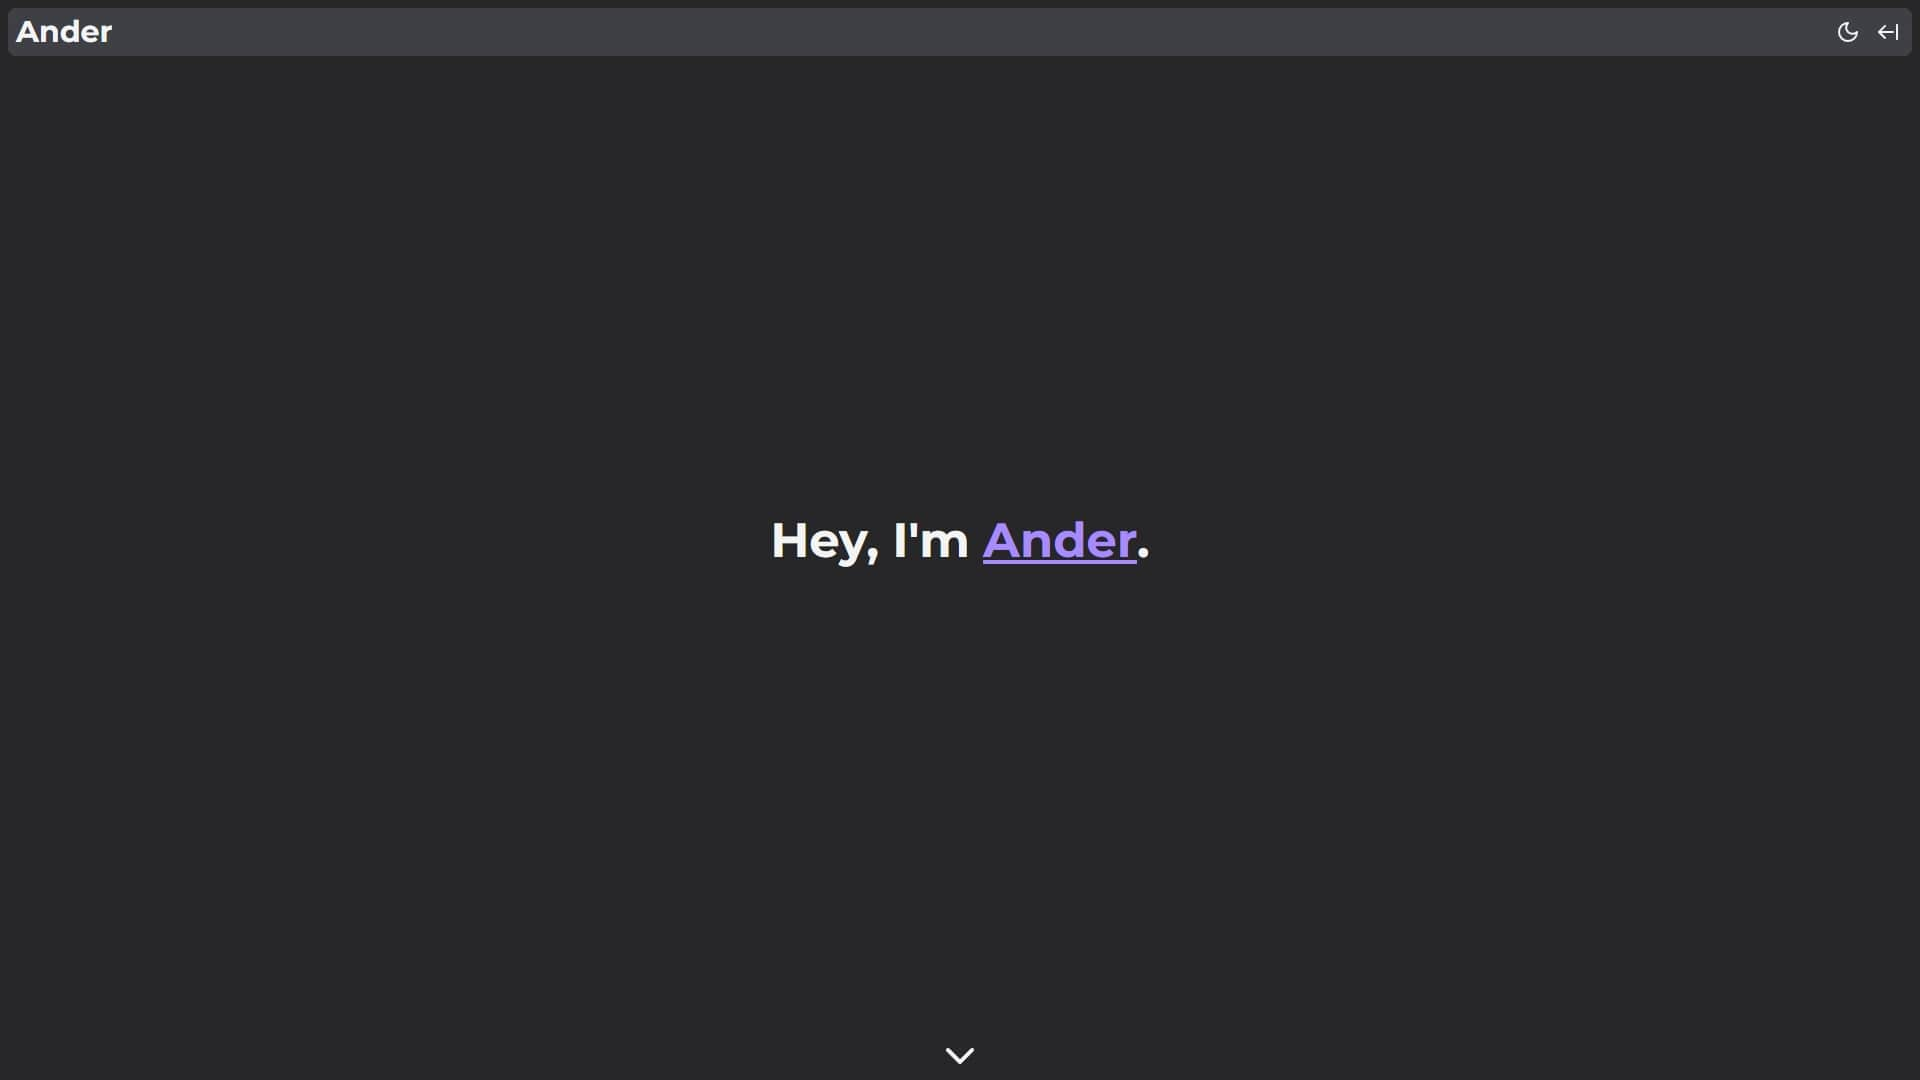
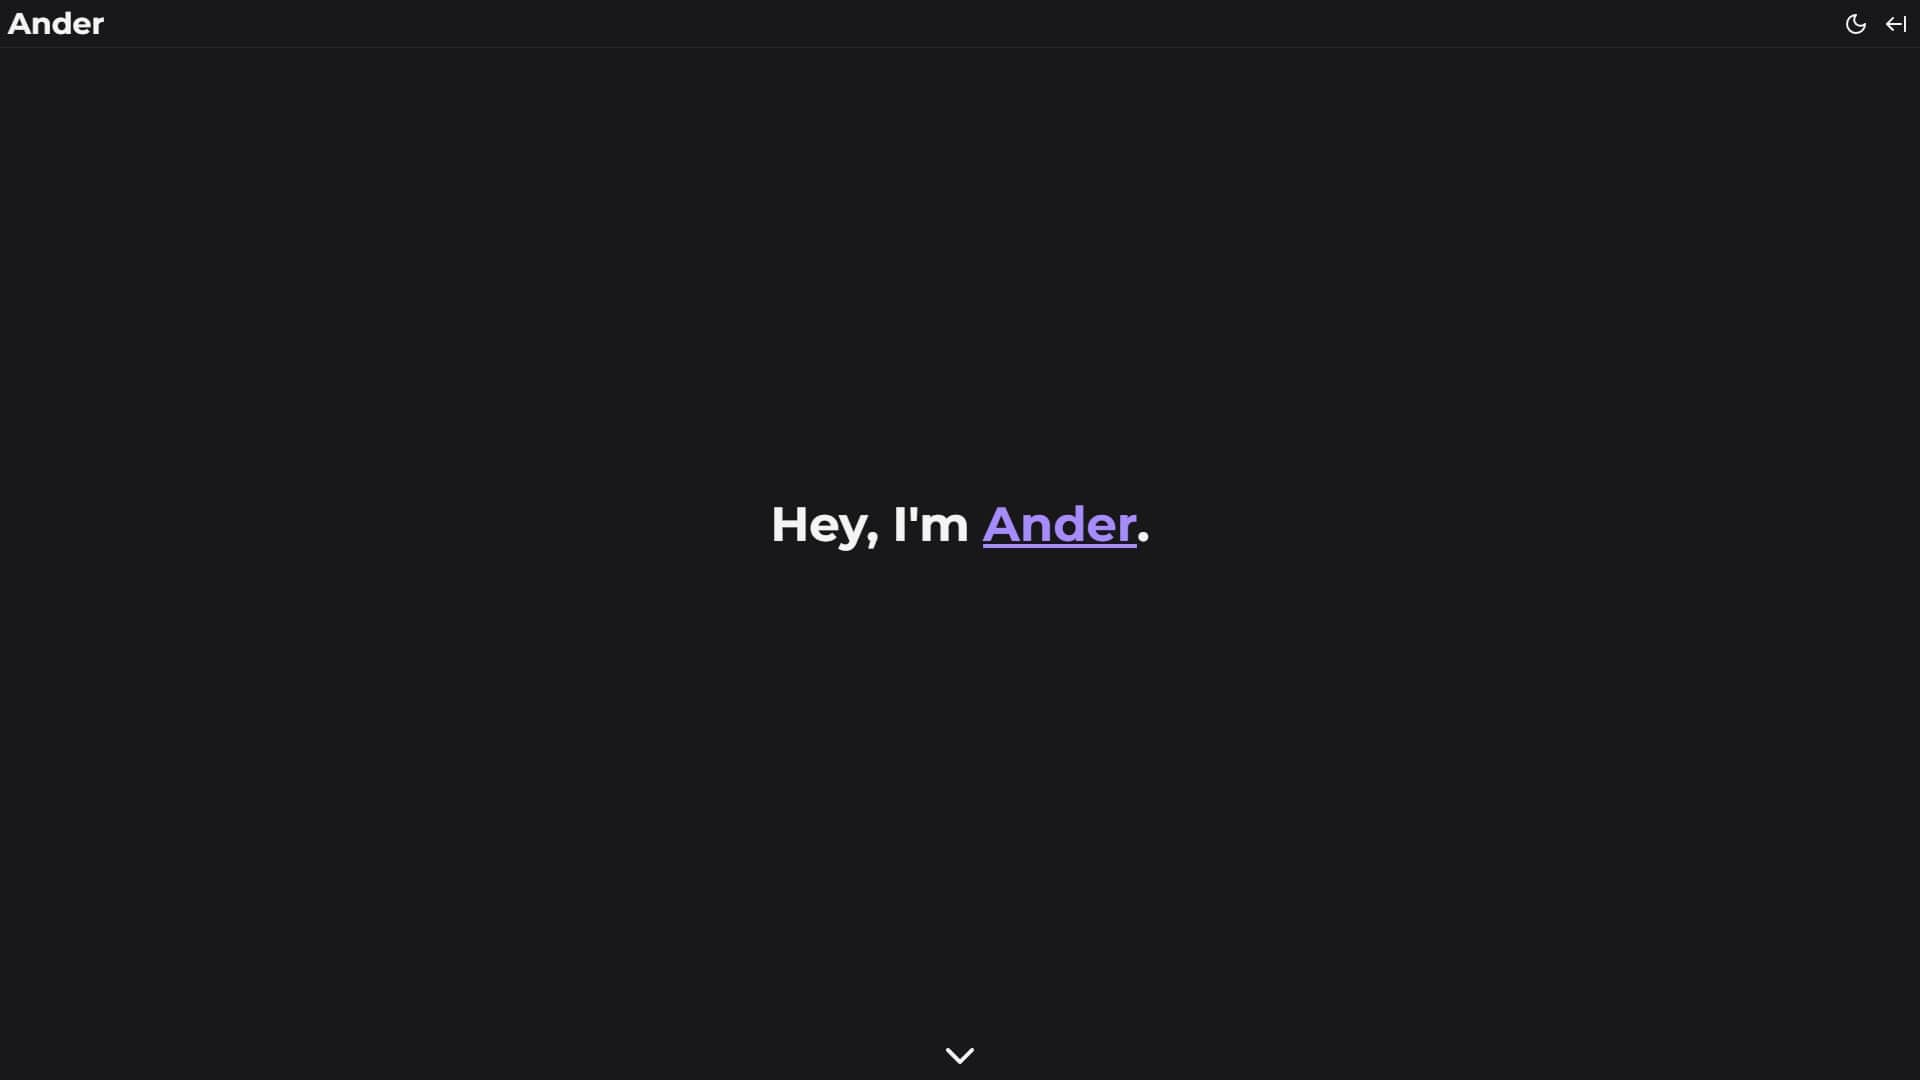
refactored header

Changed region(s): [[0.0, 0.0, 1.0, 0.0611], [0.4062, 0.4583, 0.625, 0.55]]

diff --git a/build.css b/build.css
@@ -1,1 +1,1 @@
-/*! tailwindcss v3.4.1 | MIT License | https://tailwindcss.com*/*,:after,:before{box-sizing:border-box;border:0 solid #e5e7eb}:after,:before{--tw-content:""}:host,html{line-height:1.5;-webkit-text-size-adjust:100%;-moz-tab-size:4;-o-tab-size:4;tab-size:4;font-family:Montserrat,sans-serif;font-feature-settings:normal;font-variation-settings:normal;-webkit-tap-highlight-color:transparent}body{margin:0;line-height:inherit}hr{height:0;color:inherit;border-top-width:1px}abbr:where([title]){-webkit-text-decoration:underline dotted;text-decoration:underline dotted}h1,h2,h3,h4,h5,h6{font-size:inherit;font-weight:inherit}a{color:inherit;text-decoration:inherit}b,strong{font-weight:bolder}code,kbd,pre,samp{font-family:ui-monospace,SFMono-Regular,Menlo,Monaco,Consolas,Liberation Mono,Courier New,monospace;font-feature-settings:normal;font-variation-settings:normal;font-size:1em}small{font-size:80%}sub,sup{font-size:75%;line-height:0;position:relative;vertical-align:initial}sub{bottom:-.25em}sup{top:-.5em}table{text-indent:0;border-color:inherit;border-collapse:collapse}button,input,optgroup,select,textarea{font-family:inherit;font-feature-settings:inherit;font-variation-settings:inherit;font-size:100%;font-weight:inherit;line-height:inherit;color:inherit;margin:0;padding:0}button,select{text-transform:none}[type=button],[type=reset],[type=submit],button{-webkit-appearance:button;background-color:initial;background-image:none}:-moz-focusring{outline:auto}:-moz-ui-invalid{box-shadow:none}progress{vertical-align:initial}::-webkit-inner-spin-button,::-webkit-outer-spin-button{height:auto}[type=search]{-webkit-appearance:textfield;outline-offset:-2px}::-webkit-search-decoration{-webkit-appearance:none}::-webkit-file-upload-button{-webkit-appearance:button;font:inherit}summary{display:list-item}blockquote,dd,dl,figure,h1,h2,h3,h4,h5,h6,hr,p,pre{margin:0}fieldset{margin:0}fieldset,legend{padding:0}menu,ol,ul{list-style:none;margin:0;padding:0}dialog{padding:0}textarea{resize:vertical}input::-moz-placeholder,textarea::-moz-placeholder{opacity:1;color:#9ca3af}input::placeholder,textarea::placeholder{opacity:1;color:#9ca3af}[role=button],button{cursor:pointer}:disabled{cursor:default}audio,canvas,embed,iframe,img,object,svg,video{display:block;vertical-align:middle}img,video{max-width:100%;height:auto}[hidden]{display:none}*,::backdrop,:after,:before{--tw-border-spacing-x:0;--tw-border-spacing-y:0;--tw-translate-x:0;--tw-translate-y:0;--tw-rotate:0;--tw-skew-x:0;--tw-skew-y:0;--tw-scale-x:1;--tw-scale-y:1;--tw-pan-x: ;--tw-pan-y: ;--tw-pinch-zoom: ;--tw-scroll-snap-strictness:proximity;--tw-gradient-from-position: ;--tw-gradient-via-position: ;--tw-gradient-to-position: ;--tw-ordinal: ;--tw-slashed-zero: ;--tw-numeric-figure: ;--tw-numeric-spacing: ;--tw-numeric-fraction: ;--tw-ring-inset: ;--tw-ring-offset-width:0px;--tw-ring-offset-color:#fff;--tw-ring-color:#3b82f680;--tw-ring-offset-shadow:0 0 #0000;--tw-ring-shadow:0 0 #0000;--tw-shadow:0 0 #0000;--tw-shadow-colored:0 0 #0000;--tw-blur: ;--tw-brightness: ;--tw-contrast: ;--tw-grayscale: ;--tw-hue-rotate: ;--tw-invert: ;--tw-saturate: ;--tw-sepia: ;--tw-drop-shadow: ;--tw-backdrop-blur: ;--tw-backdrop-brightness: ;--tw-backdrop-contrast: ;--tw-backdrop-grayscale: ;--tw-backdrop-hue-rotate: ;--tw-backdrop-invert: ;--tw-backdrop-opacity: ;--tw-backdrop-saturate: ;--tw-backdrop-sepia: }.fixed{position:fixed}.absolute{position:absolute}.sticky{position:sticky}.bottom-0{bottom:0}.bottom-2{bottom:.5rem}.right-0{right:0}.right-1\/2{right:50%}.top-14{top:3.5rem}.top-2{top:.5rem}.z-10{z-index:10}.z-20{z-index:20}.z-30{z-index:30}.m-2{margin:.5rem}.mx-auto{margin-left:auto;margin-right:auto}.my-16{margin-top:4rem;margin-bottom:4rem}.mb-2{margin-bottom:.5rem}.mb-32{margin-bottom:8rem}.mb-4{margin-bottom:1rem}.ml-2{margin-left:.5rem}.ml-auto{margin-left:auto}.mt-4{margin-top:1rem}.flex{display:flex}.grid{display:grid}.hidden{display:none}.h-12{height:3rem}.h-8{height:2rem}.h-full{height:100%}.h-screen{height:100vh}.w-0{width:0}.w-4\/5{width:80%}.w-48{width:12rem}.w-\[calc\(100\%-16px\)\]{width:calc(100% - 16px)}.w-full{width:100%}.translate-x-1\/2{--tw-translate-x:50%}.rotate-180,.translate-x-1\/2{transform:translate(var(--tw-translate-x),var(--tw-translate-y)) rotate(var(--tw-rotate)) skewX(var(--tw-skew-x)) skewY(var(--tw-skew-y)) scaleX(var(--tw-scale-x)) scaleY(var(--tw-scale-y))}.rotate-180{--tw-rotate:180deg}@keyframes bounce{0%,to{transform:translateY(-25%);animation-timing-function:cubic-bezier(.8,0,1,1)}50%{transform:none;animation-timing-function:cubic-bezier(0,0,.2,1)}}.animate-bounce{animation:bounce 1s infinite}.select-none{-webkit-user-select:none;-moz-user-select:none;user-select:none}.grid-rows-1{grid-template-rows:repeat(1,minmax(0,1fr))}.flex-col{flex-direction:column}.items-start{align-items:flex-start}.items-end{align-items:flex-end}.items-center{align-items:center}.justify-start{justify-content:flex-start}.justify-center{justify-content:center}.justify-evenly{justify-content:space-evenly}.gap-4{gap:1rem}.overflow-hidden{overflow:hidden}.scroll-smooth{scroll-behavior:smooth}.rounded-full{border-radius:9999px}.rounded-lg{border-radius:.5rem}.border-4{border-width:4px}.border-current{border-color:currentColor}.bg-zinc-100{--tw-bg-opacity:1;background-color:rgb(244 244 245/var(--tw-bg-opacity))}.bg-zinc-200{--tw-bg-opacity:1;background-color:rgb(228 228 231/var(--tw-bg-opacity))}.p-1{padding:.25rem}.p-2{padding:.5rem}.text-center{text-align:center}.text-3xl{font-size:1.875rem;line-height:2.25rem}.text-4xl{font-size:2.25rem;line-height:2.5rem}.text-sm{font-size:.875rem;line-height:1.25rem}.text-xl{font-size:1.25rem;line-height:1.75rem}.font-bold{font-weight:700}.font-medium{font-weight:500}.text-violet-400{--tw-text-opacity:1;color:rgb(167 139 250/var(--tw-text-opacity))}.text-zinc-900{--tw-text-opacity:1;color:rgb(24 24 27/var(--tw-text-opacity))}.underline{text-decoration-line:underline}.transition-\[width\]{transition-property:width;transition-timing-function:cubic-bezier(.4,0,.2,1);transition-duration:.15s}.transition-colors{transition-property:color,background-color,border-color,text-decoration-color,fill,stroke;transition-timing-function:cubic-bezier(.4,0,.2,1);transition-duration:.15s}.transition-transform{transition-property:transform;transition-timing-function:cubic-bezier(.4,0,.2,1);transition-duration:.15s}.duration-300{transition-duration:.3s}.hover\:border-violet-400:hover{--tw-border-opacity:1;border-color:rgb(167 139 250/var(--tw-border-opacity))}.hover\:bg-zinc-200:hover{--tw-bg-opacity:1;background-color:rgb(228 228 231/var(--tw-bg-opacity))}.hover\:bg-zinc-300:hover{--tw-bg-opacity:1;background-color:rgb(212 212 216/var(--tw-bg-opacity))}.hover\:text-violet-500:hover{--tw-text-opacity:1;color:rgb(139 92 246/var(--tw-text-opacity))}:is(.dark .dark\:bg-zinc-700){--tw-bg-opacity:1;background-color:rgb(63 63 70/var(--tw-bg-opacity))}:is(.dark .dark\:bg-zinc-800){--tw-bg-opacity:1;background-color:rgb(39 39 42/var(--tw-bg-opacity))}:is(.dark .dark\:text-zinc-100){--tw-text-opacity:1;color:rgb(244 244 245/var(--tw-text-opacity))}:is(.dark .dark\:hover\:bg-zinc-600:hover){--tw-bg-opacity:1;background-color:rgb(82 82 91/var(--tw-bg-opacity))}:is(.dark .dark\:hover\:bg-zinc-700:hover){--tw-bg-opacity:1;background-color:rgb(63 63 70/var(--tw-bg-opacity))}@media (min-width:1024px){.lg\:grid-cols-2{grid-template-columns:repeat(2,minmax(0,1fr))}.lg\:text-5xl{font-size:3rem;line-height:1}}
+/*! tailwindcss v3.4.1 | MIT License | https://tailwindcss.com*/*,:after,:before{box-sizing:border-box;border:0 solid #e5e7eb}:after,:before{--tw-content:""}:host,html{line-height:1.5;-webkit-text-size-adjust:100%;-moz-tab-size:4;-o-tab-size:4;tab-size:4;font-family:Montserrat,sans-serif;font-feature-settings:normal;font-variation-settings:normal;-webkit-tap-highlight-color:transparent}body{margin:0;line-height:inherit}hr{height:0;color:inherit;border-top-width:1px}abbr:where([title]){-webkit-text-decoration:underline dotted;text-decoration:underline dotted}h1,h2,h3,h4,h5,h6{font-size:inherit;font-weight:inherit}a{color:inherit;text-decoration:inherit}b,strong{font-weight:bolder}code,kbd,pre,samp{font-family:ui-monospace,SFMono-Regular,Menlo,Monaco,Consolas,Liberation Mono,Courier New,monospace;font-feature-settings:normal;font-variation-settings:normal;font-size:1em}small{font-size:80%}sub,sup{font-size:75%;line-height:0;position:relative;vertical-align:initial}sub{bottom:-.25em}sup{top:-.5em}table{text-indent:0;border-color:inherit;border-collapse:collapse}button,input,optgroup,select,textarea{font-family:inherit;font-feature-settings:inherit;font-variation-settings:inherit;font-size:100%;font-weight:inherit;line-height:inherit;color:inherit;margin:0;padding:0}button,select{text-transform:none}[type=button],[type=reset],[type=submit],button{-webkit-appearance:button;background-color:initial;background-image:none}:-moz-focusring{outline:auto}:-moz-ui-invalid{box-shadow:none}progress{vertical-align:initial}::-webkit-inner-spin-button,::-webkit-outer-spin-button{height:auto}[type=search]{-webkit-appearance:textfield;outline-offset:-2px}::-webkit-search-decoration{-webkit-appearance:none}::-webkit-file-upload-button{-webkit-appearance:button;font:inherit}summary{display:list-item}blockquote,dd,dl,figure,h1,h2,h3,h4,h5,h6,hr,p,pre{margin:0}fieldset{margin:0}fieldset,legend{padding:0}menu,ol,ul{list-style:none;margin:0;padding:0}dialog{padding:0}textarea{resize:vertical}input::-moz-placeholder,textarea::-moz-placeholder{opacity:1;color:#9ca3af}input::placeholder,textarea::placeholder{opacity:1;color:#9ca3af}[role=button],button{cursor:pointer}:disabled{cursor:default}audio,canvas,embed,iframe,img,object,svg,video{display:block;vertical-align:middle}img,video{max-width:100%;height:auto}[hidden]{display:none}*,::backdrop,:after,:before{--tw-border-spacing-x:0;--tw-border-spacing-y:0;--tw-translate-x:0;--tw-translate-y:0;--tw-rotate:0;--tw-skew-x:0;--tw-skew-y:0;--tw-scale-x:1;--tw-scale-y:1;--tw-pan-x: ;--tw-pan-y: ;--tw-pinch-zoom: ;--tw-scroll-snap-strictness:proximity;--tw-gradient-from-position: ;--tw-gradient-via-position: ;--tw-gradient-to-position: ;--tw-ordinal: ;--tw-slashed-zero: ;--tw-numeric-figure: ;--tw-numeric-spacing: ;--tw-numeric-fraction: ;--tw-ring-inset: ;--tw-ring-offset-width:0px;--tw-ring-offset-color:#fff;--tw-ring-color:#3b82f680;--tw-ring-offset-shadow:0 0 #0000;--tw-ring-shadow:0 0 #0000;--tw-shadow:0 0 #0000;--tw-shadow-colored:0 0 #0000;--tw-blur: ;--tw-brightness: ;--tw-contrast: ;--tw-grayscale: ;--tw-hue-rotate: ;--tw-invert: ;--tw-saturate: ;--tw-sepia: ;--tw-drop-shadow: ;--tw-backdrop-blur: ;--tw-backdrop-brightness: ;--tw-backdrop-contrast: ;--tw-backdrop-grayscale: ;--tw-backdrop-hue-rotate: ;--tw-backdrop-invert: ;--tw-backdrop-opacity: ;--tw-backdrop-saturate: ;--tw-backdrop-sepia: }.fixed{position:fixed}.absolute{position:absolute}.sticky{position:sticky}.bottom-0{bottom:0}.bottom-2{bottom:.5rem}.right-0{right:0}.right-1\/2{right:50%}.top-0{top:0}.top-12{top:3rem}.z-10{z-index:10}.z-20{z-index:20}.z-30{z-index:30}.m-2{margin:.5rem}.mx-auto{margin-left:auto;margin-right:auto}.my-16{margin-top:4rem;margin-bottom:4rem}.mb-2{margin-bottom:.5rem}.mb-32{margin-bottom:8rem}.mb-4{margin-bottom:1rem}.ml-2{margin-left:.5rem}.ml-auto{margin-left:auto}.mt-4{margin-top:1rem}.flex{display:flex}.grid{display:grid}.hidden{display:none}.h-12{height:3rem}.h-8{height:2rem}.h-full{height:100%}.h-screen{height:100vh}.w-0{width:0}.w-4\/5{width:80%}.w-48{width:12rem}.w-\[calc\(100\%-16px\)\]{width:calc(100% - 16px)}.w-full{width:100%}.translate-x-1\/2{--tw-translate-x:50%}.rotate-180,.translate-x-1\/2{transform:translate(var(--tw-translate-x),var(--tw-translate-y)) rotate(var(--tw-rotate)) skewX(var(--tw-skew-x)) skewY(var(--tw-skew-y)) scaleX(var(--tw-scale-x)) scaleY(var(--tw-scale-y))}.rotate-180{--tw-rotate:180deg}@keyframes bounce{0%,to{transform:translateY(-25%);animation-timing-function:cubic-bezier(.8,0,1,1)}50%{transform:none;animation-timing-function:cubic-bezier(0,0,.2,1)}}.animate-bounce{animation:bounce 1s infinite}.select-none{-webkit-user-select:none;-moz-user-select:none;user-select:none}.grid-rows-1{grid-template-rows:repeat(1,minmax(0,1fr))}.flex-col{flex-direction:column}.items-start{align-items:flex-start}.items-end{align-items:flex-end}.items-center{align-items:center}.justify-start{justify-content:flex-start}.justify-center{justify-content:center}.justify-evenly{justify-content:space-evenly}.gap-4{gap:1rem}.overflow-hidden{overflow:hidden}.scroll-smooth{scroll-behavior:smooth}.rounded-full{border-radius:9999px}.rounded-lg{border-radius:.5rem}.border-4{border-width:4px}.border-b{border-bottom-width:1px}.border-current{border-color:currentColor}.border-zinc-200{--tw-border-opacity:1;border-color:rgb(228 228 231/var(--tw-border-opacity))}.bg-zinc-100{--tw-bg-opacity:1;background-color:rgb(244 244 245/var(--tw-bg-opacity))}.bg-zinc-200{--tw-bg-opacity:1;background-color:rgb(228 228 231/var(--tw-bg-opacity))}.p-1{padding:.25rem}.p-2{padding:.5rem}.text-center{text-align:center}.text-3xl{font-size:1.875rem;line-height:2.25rem}.text-4xl{font-size:2.25rem;line-height:2.5rem}.text-sm{font-size:.875rem;line-height:1.25rem}.text-xl{font-size:1.25rem;line-height:1.75rem}.font-bold{font-weight:700}.font-medium{font-weight:500}.text-violet-400{--tw-text-opacity:1;color:rgb(167 139 250/var(--tw-text-opacity))}.text-zinc-900{--tw-text-opacity:1;color:rgb(24 24 27/var(--tw-text-opacity))}.underline{text-decoration-line:underline}.backdrop-blur{--tw-backdrop-blur:blur(8px);-webkit-backdrop-filter:var(--tw-backdrop-blur) var(--tw-backdrop-brightness) var(--tw-backdrop-contrast) var(--tw-backdrop-grayscale) var(--tw-backdrop-hue-rotate) var(--tw-backdrop-invert) var(--tw-backdrop-opacity) var(--tw-backdrop-saturate) var(--tw-backdrop-sepia);backdrop-filter:var(--tw-backdrop-blur) var(--tw-backdrop-brightness) var(--tw-backdrop-contrast) var(--tw-backdrop-grayscale) var(--tw-backdrop-hue-rotate) var(--tw-backdrop-invert) var(--tw-backdrop-opacity) var(--tw-backdrop-saturate) var(--tw-backdrop-sepia)}.transition-\[width\]{transition-property:width;transition-timing-function:cubic-bezier(.4,0,.2,1);transition-duration:.15s}.transition-colors{transition-property:color,background-color,border-color,text-decoration-color,fill,stroke;transition-timing-function:cubic-bezier(.4,0,.2,1);transition-duration:.15s}.transition-transform{transition-property:transform;transition-timing-function:cubic-bezier(.4,0,.2,1);transition-duration:.15s}.duration-300{transition-duration:.3s}.hover\:border-violet-400:hover{--tw-border-opacity:1;border-color:rgb(167 139 250/var(--tw-border-opacity))}.hover\:bg-zinc-200:hover{--tw-bg-opacity:1;background-color:rgb(228 228 231/var(--tw-bg-opacity))}.hover\:bg-zinc-300:hover{--tw-bg-opacity:1;background-color:rgb(212 212 216/var(--tw-bg-opacity))}.hover\:text-violet-500:hover{--tw-text-opacity:1;color:rgb(139 92 246/var(--tw-text-opacity))}.active\:bg-zinc-300:active{--tw-bg-opacity:1;background-color:rgb(212 212 216/var(--tw-bg-opacity))}.active\:bg-zinc-400:active{--tw-bg-opacity:1;background-color:rgb(161 161 170/var(--tw-bg-opacity))}.active\:transition-none:active{transition-property:none}:is(.dark .dark\:border-zinc-800){--tw-border-opacity:1;border-color:rgb(39 39 42/var(--tw-border-opacity))}:is(.dark .dark\:bg-zinc-800){--tw-bg-opacity:1;background-color:rgb(39 39 42/var(--tw-bg-opacity))}:is(.dark .dark\:bg-zinc-900){--tw-bg-opacity:1;background-color:rgb(24 24 27/var(--tw-bg-opacity))}:is(.dark .dark\:text-zinc-100){--tw-text-opacity:1;color:rgb(244 244 245/var(--tw-text-opacity))}:is(.dark .dark\:hover\:bg-zinc-700:hover){--tw-bg-opacity:1;background-color:rgb(63 63 70/var(--tw-bg-opacity))}:is(.dark .dark\:active\:bg-zinc-600:active){--tw-bg-opacity:1;background-color:rgb(82 82 91/var(--tw-bg-opacity))}@media (min-width:1024px){.lg\:grid-cols-2{grid-template-columns:repeat(2,minmax(0,1fr))}.lg\:text-5xl{font-size:3rem;line-height:1}}

diff --git a/index.html b/index.html
@@ -42,16 +42,16 @@
   </head>
 
   <body
-    class="bg-zinc-100 text-zinc-900 transition-colors duration-300 dark:bg-zinc-800 dark:text-zinc-100"
+    class="bg-zinc-100 text-zinc-900 transition-colors duration-300 dark:bg-zinc-900 dark:text-zinc-100"
   >
     <div
-      class="sticky top-2 z-30 m-2 flex h-12 select-none items-center rounded-lg bg-zinc-200 p-2 dark:bg-zinc-700"
+      class="sticky top-0 z-30 flex h-12 select-none items-center border-b border-zinc-200 p-2 backdrop-blur dark:border-zinc-800"
       id="header"
     >
       <a class="text-3xl font-bold" href="#" title="Back To Top">Ander</a>
 
       <button
-        class="ml-auto rounded-lg p-1 transition-colors hover:bg-zinc-300 dark:hover:bg-zinc-600"
+        class="ml-auto rounded-lg p-1 transition-colors hover:bg-zinc-200 active:bg-zinc-300 active:transition-none dark:hover:bg-zinc-700 dark:active:bg-zinc-600"
         id="theme-button"
         title="Toggle Theme"
       >
@@ -95,7 +95,7 @@
         </svg>
       </button>
       <button
-        class="ml-2 rounded-lg p-1 transition-colors hover:bg-zinc-300 dark:hover:bg-zinc-600"
+        class="ml-2 rounded-lg p-1 transition-colors hover:bg-zinc-200 active:transition-none dark:hover:bg-zinc-700 dark:active:bg-zinc-600"
         id="menu-button"
         title="Toggle Sidebar"
       >
@@ -120,18 +120,18 @@
     </div>
     <div
       id="sidebar"
-      class="fixed bottom-0 right-0 top-14 z-20 m-2 flex w-0 select-none items-start justify-center overflow-hidden rounded-lg bg-zinc-200 text-center transition-[width] duration-300 dark:bg-zinc-700"
+      class="fixed bottom-0 right-0 top-12 z-20 m-2 flex w-0 select-none items-start justify-center overflow-hidden rounded-lg bg-zinc-200 text-center transition-[width] duration-300 dark:bg-zinc-800"
     >
       <ul class="h-full w-full p-2 font-medium">
         <li
-          class="mb-4 flex h-8 w-full rounded-lg transition-colors hover:bg-zinc-300 dark:hover:bg-zinc-600"
+          class="mb-4 flex h-8 w-full rounded-lg transition-colors hover:bg-zinc-300 active:bg-zinc-400 active:transition-none dark:hover:bg-zinc-700 dark:active:bg-zinc-600"
         >
           <a href="#" class="flex h-full w-full items-center justify-center"
             >Home</a
           >
         </li>
         <li
-          class="mb-4 flex h-8 w-full rounded-lg transition-colors hover:bg-zinc-300 dark:hover:bg-zinc-600"
+          class="mb-4 flex h-8 w-full rounded-lg transition-colors hover:bg-zinc-300 active:bg-zinc-400 active:transition-none dark:hover:bg-zinc-700 dark:active:bg-zinc-600"
         >
           <a
             href="#about"
@@ -140,7 +140,7 @@
           >
         </li>
         <li
-          class="mb-4 flex h-8 w-full rounded-lg transition-colors hover:bg-zinc-300 dark:hover:bg-zinc-600"
+          class="mb-4 flex h-8 w-full rounded-lg transition-colors hover:bg-zinc-300 active:bg-zinc-400 active:transition-none dark:hover:bg-zinc-700 dark:active:bg-zinc-600"
         >
           <a
             href="#about-me"
@@ -149,7 +149,7 @@
           >
         </li>
         <li
-          class="mb-4 flex h-8 w-full rounded-lg transition-colors hover:bg-zinc-300 dark:hover:bg-zinc-600"
+          class="mb-4 flex h-8 w-full rounded-lg transition-colors hover:bg-zinc-300 active:bg-zinc-400 active:transition-none dark:hover:bg-zinc-700 dark:active:bg-zinc-600"
         >
           <a
             href="#projects"
@@ -158,10 +158,10 @@
           >
         </li>
         <div
-          class="absolute bottom-2 flex w-[calc(100%-16px)] items-end justify-evenly rounded-lg bg-zinc-100 p-1 dark:bg-zinc-800"
+          class="absolute bottom-2 flex w-[calc(100%-16px)] items-end justify-evenly p-1"
         >
           <a
-            class="rounded-lg p-1 transition-colors hover:bg-zinc-200 dark:hover:bg-zinc-700"
+            class="rounded-lg p-1 transition-colors hover:bg-zinc-300 dark:hover:bg-zinc-700"
             href="https://github.com/ovoander"
             target="_blank"
             title="GitHub"
@@ -183,7 +183,7 @@
             </svg>
           </a>
           <a
-            class="rounded-lg p-1 transition-colors hover:bg-zinc-200 dark:hover:bg-zinc-700"
+            class="rounded-lg p-1 transition-colors hover:bg-zinc-300 dark:hover:bg-zinc-700"
             href="https://www.twitch.tv/b2mforty"
             target="_blank"
             title="Twitch"
@@ -202,7 +202,7 @@
             </svg>
           </a>
           <a
-            class="rounded-lg p-1 transition-colors hover:bg-zinc-200 dark:hover:bg-zinc-700"
+            class="rounded-lg p-1 transition-colors hover:bg-zinc-300 dark:hover:bg-zinc-700"
             href="https://www.youtube.com/channel/UC_1AYPc8eqNJqJyO1rQiYYg"
             target="_blank"
             title="YouTube"
@@ -351,4 +351,3 @@
     <script defer src="script.js"></script>
   </body>
 </html>
-transition-colors
